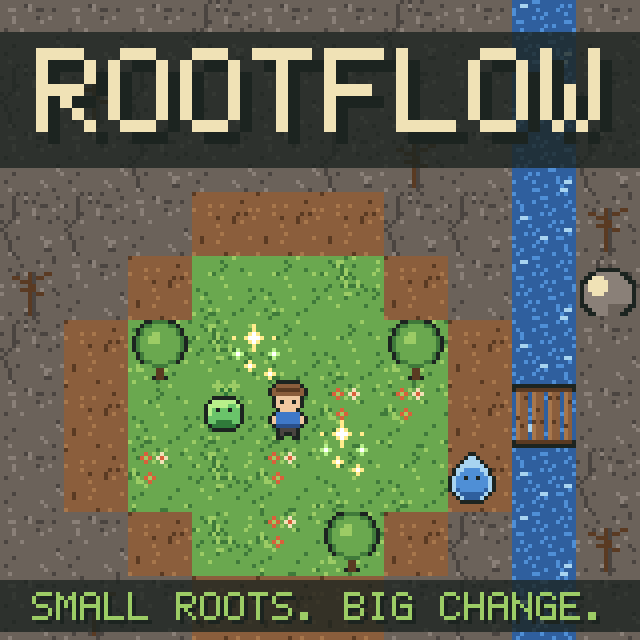
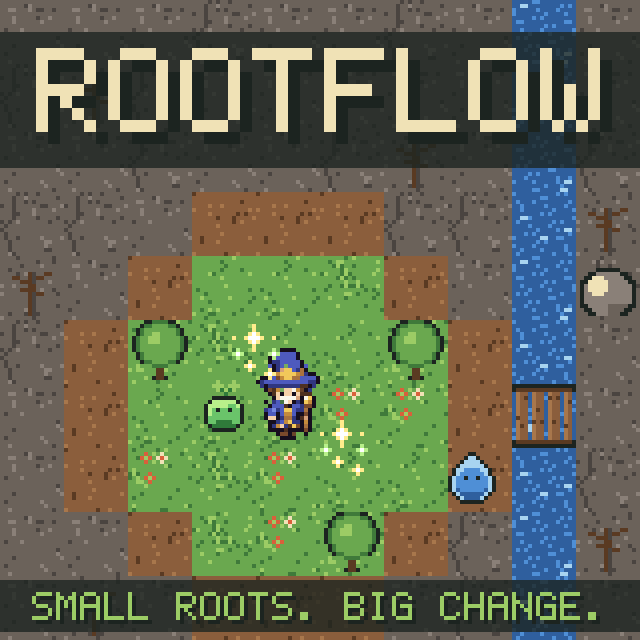
v0.4.4 art: new wizard player with a 3-frame walk
- New player: a young explorer wizard, generated with ChatGPT from a
  strict prompt (exact 10x10 pixel blocks, fixed 15-color palette,
  4x3 grid). Source in art/source/player_source.png.
- tools/import_sheet.py --grid converts it exactly (no color guessing);
  tools/player_palette.py holds the palette the prompt lists.
- 12 frames of 16x32 (art 16x24): front, back, side x stand + 3 walk
  frames with real strides, played 1-2-3-2.
- The player draws as a tall 16x32 sprite above its feet; collision
  is unchanged.
- Sprite VRAM offsets are generated by build_data.py (TILE_*).
- The sparkle has its own palette so player colors cannot change it.
- Cover uses the new player.

Changed region(s): [[0.4062, 0.5312, 0.5, 0.6875]]

diff --git a/rootflow/tools/import_sheet.py b/rootflow/tools/import_sheet.py
@@ -1,0 +1,167 @@
+"""Turn a designer's upscaled sprite image into a true low-res indexed sheet.
+
+Grid mode (preferred; for images made with the 4x3 player prompt, exact 10x10 pixel blocks):
+  python3 tools/import_sheet.py --grid SRC OUT
+  Finds the frames, reads the center of each block, and snaps every color to the player
+  palette in tools/player_palette.py. Rows: front, back, side (faces right); columns: stand,
+  walk1, passing, walk3. Output: player_sprite.png layout (12 frames of 16x32, art 16x24).
+
+Strip mode (for blurry or unevenly scaled images, e.g. a WebP of one long row):
+  python3 tools/import_sheet.py SRC OUT FRAMES ART_HEIGHT CELL_HEIGHT
+  SRC          image with FRAMES characters in one row on a magenta background
+               (it may be scaled up and blurred, e.g. an AI image or a WebP)
+  OUT          indexed PNG: FRAMES cells of 16 x CELL_HEIGHT, index 0 = transparent magenta
+  ART_HEIGHT   the real height of the art in pixels (the source is scaled to this)
+  CELL_HEIGHT  16 or 32; the art sits on the bottom of each cell
+
+Each output pixel takes the median color at the center of its block (where blur is lowest),
+then all frames share one 15-color palette.
+"""
+import os
+import sys
+from PIL import Image
+
+
+def runs(flags):
+    out, i = [], 0
+    while i < len(flags):
+        if flags[i]:
+            s = i
+            while i < len(flags) and flags[i]:
+                i += 1
+            out.append((s, i - 1))
+        i += 1
+    return out
+
+
+def grid_main(src, out):
+    sys.path.insert(0, os.path.dirname(os.path.abspath(__file__)))
+    from player_palette import PAL
+    im = Image.open(src).convert("RGB")
+    w, h = im.size
+    px = im.load()
+
+    def is_bg(c):
+        r, g, b = c
+        return r > 180 and g < 110 and b > 180
+
+    bands = runs([any(not is_bg(px[x, y]) for x in range(w)) for y in range(h)])
+    if len(bands) != 3:
+        sys.exit(f"expected 3 rows of figures, found {len(bands)}: {bands}")
+    # Pixel block size: the most common length of a same-color run.
+    from collections import Counter
+    lens = Counter()
+    for y in range(0, h, 3):
+        x = 0
+        while x < w:
+            c, s0 = px[x, y], x
+            while x < w and px[x, y] == c:
+                x += 1
+            lens[x - s0] += 1
+    block = min(k for k, v in lens.items() if v >= max(lens.values()) // 3 and k > 1)
+    sheet = Image.new("P", (16 * 12, 32), 0)
+    sheet.putpalette([c for rgb in PAL for c in rgb] + [0, 0, 0] * 240)
+    snapped = 0
+    for r, (y0, y1) in enumerate(bands):
+        cols = runs([any(not is_bg(px[x, y]) for y in range(y0, y1 + 1)) for x in range(w)])
+        if len(cols) != 4:
+            sys.exit(f"row {r}: expected 4 figures, found {len(cols)}: {cols}")
+        art_h = round((y1 - y0 + 1) / block)
+        if art_h > 24:
+            sys.exit(f"row {r}: figures are {art_h} pixels tall, more than 24")
+        for c, (x0, x1) in enumerate(cols):
+            fw = round((x1 - x0 + 1) / block)
+            ox = (16 - fw) // 2
+            for ty in range(art_h):
+                for tx in range(fw):
+                    col = px[x0 + tx * block + block // 2, y0 + ty * block + block // 2]
+                    if is_bg(col):
+                        continue
+                    d, idx = min((sum((col[k] - PAL[i][k]) ** 2 for k in range(3)), i) for i in range(1, 16))
+                    snapped += d > 0
+                    # feet on the bottom row of the 24-pixel art box (cell rows 8..31)
+                    sheet.putpixel(((r * 4 + c) * 16 + ox + tx, 32 - art_h + ty), idx)
+    sheet.save(out)
+    print(f"wrote {out}: block {block}px, {snapped} pixels needed color snapping")
+
+
+def main():
+    if sys.argv[1] == "--grid":
+        return grid_main(sys.argv[2], sys.argv[3])
+    src, out, frames, art_h, cell_h = sys.argv[1], sys.argv[2], *map(int, sys.argv[3:6])
+    im = Image.open(src).convert("RGB")
+    w, h = im.size
+    px = im.load()
+
+    def is_bg(c):
+        r, g, b = c
+        return r > 180 and g < 110 and b > 180
+
+    cols = [any(not is_bg(px[x, y]) for y in range(h)) for x in range(w)]
+    runs, x = [], 0
+    while x < w:
+        if cols[x]:
+            s = x
+            while x < w and cols[x]:
+                x += 1
+            runs.append((s, x - 1))
+        x += 1
+    if len(runs) != frames:
+        sys.exit(f"found {len(runs)} figures, expected {frames}: {runs}")
+    rows = [y for y in range(h) if any(not is_bg(px[x, y]) for x in range(w))]
+    top, bot = rows[0], rows[-1]
+    scale = (bot - top + 1) / art_h
+
+    def is_fringe(c):
+        # magenta blended into an edge: red and blue well above green
+        r, g, b = c
+        return r > 60 and b > 60 and g < 0.6 * min(r, b)
+
+    def sample(cx, cy):
+        cs = [px[min(w - 1, max(0, int(cx) + dx)), min(h - 1, max(0, int(cy) + dy))]
+              for dy in (-1, 0, 1) for dx in (-1, 0, 1)]
+        bg_like = sum(is_bg(c) or (is_fringe(c) and sum(c) > 300) for c in cs)
+        if bg_like >= 5:
+            return None
+        cs = sorted((c for c in cs if not is_bg(c)), key=sum)
+        c = cs[len(cs) // 2]
+        if is_fringe(c):          # a dark fringe is really the outline
+            return OUTLINE
+        return c
+
+    # The outline color: the darkest common color in the source figures.
+    dark = [px[x, y] for y in range(top, bot + 1, 2) for x in range(0, w, 2)
+            if not is_bg(px[x, y]) and sum(px[x, y]) < 90 and not is_fringe(px[x, y])]
+    OUTLINE = sorted(dark, key=sum)[len(dark) // 2] if dark else (16, 12, 20)
+
+    cells = []
+    for x0, x1 in runs:
+        nw = min(16, round((x1 - x0 + 1) / scale))
+        off = (16 - nw) // 2
+        cell = {}
+        for ty in range(art_h):
+            for tx in range(nw):
+                c = sample(x0 + (tx + 0.5) * scale, top + (ty + 0.5) * scale)
+                if c:
+                    cell[(tx + off, ty)] = c
+        cells.append(cell)
+
+    colors = [c for cell in cells for c in cell.values()]
+    strip = Image.new("RGB", (len(colors), 1))
+    strip.putdata(colors)
+    pal = strip.quantize(colors=15, method=Image.Quantize.MAXCOVERAGE, kmeans=8).getpalette()[:45]
+
+    def nearest(c):
+        return min(range(15), key=lambda i: sum((c[k] - pal[i * 3 + k]) ** 2 for k in range(3)))
+
+    sheet = Image.new("P", (16 * frames, cell_h), 0)
+    sheet.putpalette([255, 0, 255] + pal + [0, 0, 0] * 240)
+    for i, cell in enumerate(cells):
+        for (tx, ty), c in cell.items():
+            sheet.putpixel((i * 16 + tx, cell_h - art_h + ty), nearest(c) + 1)
+    sheet.save(out)
+    print(f"wrote {out}: {frames} frames, {scale:.2f} source px per pixel")
+
+
+if __name__ == "__main__":
+    main()

diff --git a/rootflow/src/main.c b/rootflow/src/main.c
@@ -203,25 +203,31 @@ static void draw_life(void) {
 
 // ---------- sprites ----------
 static u16 oam_shadow[128 * 4];
-static void sprite_set(s32 id, s32 x, s32 y, u32 tile, u32 hflip, u32 pal) {
+// tile8 is in 8x8 tiles. tall = 16x32 (vertical shape, size 2), else 16x16 (square, size 1).
+static void obj_set(s32 id, s32 x, s32 y, u32 tile8, u32 hflip, u32 pal, int tall) {
     u16 *o = &oam_shadow[id * 4];
-    if (x < -16 || x > SCREEN_W || y < -16 || y > SCREEN_H) { o[0] = 0x0200; return; }
-    o[0] = (y & 0xFF);                                        // square shape
-    o[1] = (x & 0x1FF) | (1 << 14) | (hflip ? 1 << 12 : 0);   // 16x16
-    o[2] = (tile * 4) | (1 << 10) | (pal << 12);              // priority 1
+    if (x < -16 || x > SCREEN_W || y < (tall ? -32 : -16) || y > SCREEN_H) { o[0] = 0x0200; return; }
+    o[0] = (y & 0xFF) | (tall ? 2 << 14 : 0);
+    o[1] = (x & 0x1FF) | ((tall ? 2 : 1) << 14) | (hflip ? 1 << 12 : 0);
+    o[2] = tile8 | (1 << 10) | (pal << 12);                   // priority 1
+}
+// 16x16 sprite; tile is in 16x16 cells (4 tiles each).
+static void sprite_set(s32 id, s32 x, s32 y, u32 tile, u32 hflip, u32 pal) {
+    obj_set(id, x, y, tile * 4, hflip, pal, 0);
 }
 static void sprite_hide(s32 id) { oam_shadow[id * 4] = 0x0200; }
 static void oam_flush(void) {
     for (u32 i = 0; i < 128 * 4; i++) OAM[i] = oam_shadow[i];
 }
 
-// Sprite sheet tile numbers (16x16 cells)
-#define SPR_SPROUT 6
-#define SPR_SPARKLE 8
-#define SPR_RIPPLE 9
-#define SPR_ZZZ 11
-#define SPR_STONE 12
-#define SPR_BREEZE 14
+// Sprite sheet cells (16x16 cells = 4 tiles); offsets come from build_data.py.
+// The player is separate: 16x32 frames of 8 tiles from TILE_PLAYER.
+#define SPR_SPROUT (TILE_SPROUT / 4)
+#define SPR_SPARKLE (TILE_FX / 4)
+#define SPR_RIPPLE (TILE_RIPPLE / 4)
+#define SPR_ZZZ (SPR_RIPPLE + 2)
+#define SPR_STONE (TILE_PEBBLE / 4)
+#define SPR_BREEZE (TILE_BREEZE / 4)
 #define PAL_MAIN 0
 #define PAL_RIPPLE 1
 #define PAL_SLEEP 2
@@ -230,6 +236,7 @@ static void oam_flush(void) {
 #define PAL_BREEZE 5
 #define PAL_BREEZE_SLEEP 6
 #define PAL_SPROUT 7
+#define PAL_FX 8
 
 // OAM slots
 #define OAM_PLAYER  0
@@ -238,7 +245,7 @@ static void oam_flush(void) {
 #define OAM_SPARKLE 9
 
 // ---------- game state ----------
-static s32 px, py, pdir, pframe;        // player top-left (pixels), facing, anim frame
+static s32 px, py, pdir, pstep;         // player top-left of the 16x16 feet cell (pixels), facing, walk step
 static s32 cam_x, cam_y;
 static u32 frame;
 
@@ -507,11 +514,11 @@ static void update_player(void) {
     if (dy && !blocked_at(px, py + dy)) { py += dy; moved = 1; }
 
     if (moved) {
-        if ((frame & 7) == 0) pframe ^= 1;
+        if ((frame & 7) == 0) pstep++;
         hist_head = (hist_head + 1) & (HIST - 1);
         hist_x[hist_head] = px; hist_y[hist_head] = py;
     } else {
-        pframe = 0;
+        pstep = 0;
     }
 }
 
@@ -800,8 +807,13 @@ static void animate_water(void) {
 }
 
 static void draw_sprites(void) {
-    static const u8 base_tile[4] = { 0, 2, 4, 4 };   // down, up, left, right
-    sprite_set(OAM_PLAYER, px - cam_x, py - cam_y, base_tile[pdir] + pframe, pdir == DIR_LEFT, PAL_MAIN);
+    // Player sheet: per direction (down, up, side) 4 frames: stand, walk1, walk2, walk3.
+    // Walking plays 1, 2, 3, 2. Left is the side frames mirrored. The sprite is 16x32 with the
+    // feet in the bottom 16 pixels, so it is drawn 16 pixels above the feet cell.
+    static const u8 dir_block[4] = { 0, 1, 2, 2 };   // down, up, left, right
+    static const u8 walk_seq[4] = { 1, 2, 3, 2 };
+    u32 f = dir_block[pdir] * 4 + (pstep ? walk_seq[pstep & 3] : 0);
+    obj_set(OAM_PLAYER, px - cam_x, py - cam_y - 16, TILE_PLAYER + f * 8, pdir == DIR_LEFT, PAL_MAIN, 1);
 
     for (s32 i = 0; i < NUM_SPIRITS; i++) {
         Spirit *s = &spirits[i];
@@ -821,7 +833,7 @@ static void draw_sprites(void) {
     if (sparkle_life > 0) {
         sparkle_life--;
         sprite_set(OAM_SPARKLE, sparkle_x - cam_x, sparkle_y - cam_y - (40 - sparkle_life) / 4,
-                   SPR_SPARKLE, (frame >> 3) & 1, PAL_MAIN);
+                   SPR_SPARKLE, (frame >> 3) & 1, PAL_FX);
     } else {
         sprite_hide(OAM_SPARKLE);
     }
@@ -840,6 +852,7 @@ int main(void) {
         PAL_OBJ[80 + i] = obj_pal_breeze[i];
         PAL_OBJ[96 + i] = obj_pal_breeze_sleep[i];
         PAL_OBJ[112 + i] = obj_pal_sprout[i];
+        PAL_OBJ[128 + i] = obj_pal_fx[i];
     }
     PAL_BG[16 + 1] = 0x7FFF;                         // text color: white
     PAL_BG[16 + 2] = (2) | (3 << 5) | (6 << 10);     // text background: dark slate

diff --git a/rootflow/tools/build_data.py b/rootflow/tools/build_data.py
@@ -46,9 +46,14 @@ def tile_words(img, ox, oy):
 
 def strip_16x16(img):
     """Each 16x16 cell becomes 4 tiles in order TL, TR, BL, BR."""
+    return strip_cells(img, 16)
+
+
+def strip_cells(img, cell_h):
+    """Each 16 x cell_h cell becomes 8x8 tiles in row-major order (the GBA's 1D sprite layout)."""
     words = []
     for i in range(img.width // 16):
-        for ty in (0, 8):
+        for ty in range(0, cell_h, 8):
             for tx in (0, 8):
                 words += tile_words(img, i * 16 + tx, ty)
     return words
@@ -204,6 +209,15 @@ def main():
     breeze = Image.open(os.path.join(ART, "breeze_sprite.png"))
     for im in (terrain, player, sprout, fx, ripple, pebble, breeze):
         assert im.mode == "P", "PNGs must be indexed color"
+    # The player is 12 tall frames: down, up, side (faces right) x stand, walk1, walk2, walk3.
+    assert player.size == (192, 32), f"player_sprite.png must be 192x32 (12 frames of 16x32), not {player.size}"
+    # Sprite VRAM layout in 8x8 tiles; main.c uses these offsets.
+    sheets = [("PLAYER", player, 32), ("SPROUT", sprout, 16), ("FX", fx, 16),
+              ("RIPPLE", ripple, 16), ("PEBBLE", pebble, 16), ("BREEZE", breeze, 16)]
+    sprite_words, tile_defs = [], []
+    for name, img, cell_h in sheets:
+        tile_defs.append(f"#define TILE_{name} {len(sprite_words) // 8}")
+        sprite_words += strip_cells(img, cell_h)
     pal_ripple = palette_of(ripple)
     pal_pebble = palette_of(pebble)
     pal_breeze = palette_of(breeze)
@@ -223,6 +237,8 @@ def main():
     out.append(c_array("unsigned short", "bg_pal", palette_of(terrain), fmt="0x{:04X}"))
     out.append(c_array("unsigned short", "obj_pal", palette_of(player), fmt="0x{:04X}"))
     out.append(c_array("unsigned short", "obj_pal_sprout", palette_of(sprout), fmt="0x{:04X}"))
+    out.append(c_array("unsigned short", "obj_pal_fx", palette_of(fx), fmt="0x{:04X}"))
+    out.append("\n".join(tile_defs))
     out.append(c_array("unsigned int", "terrain_tiles", strip_16x16(terrain)))
     out.append(c_array("unsigned short", "obj_pal_ripple", pal_ripple, fmt="0x{:04X}"))
     out.append(c_array("unsigned short", "obj_pal_ripple_sleep", gray, fmt="0x{:04X}"))
@@ -230,10 +246,7 @@ def main():
     out.append(c_array("unsigned short", "obj_pal_pebble_sleep", sleep_palette(pal_pebble), fmt="0x{:04X}"))
     out.append(c_array("unsigned short", "obj_pal_breeze", pal_breeze, fmt="0x{:04X}"))
     out.append(c_array("unsigned short", "obj_pal_breeze_sleep", sleep_palette(pal_breeze), fmt="0x{:04X}"))
-    out.append(c_array("unsigned int", "sprite_tiles",
-                       strip_16x16(player) + strip_16x16(sprout) + strip_16x16(fx)
-                       + strip_16x16(ripple) + strip_16x16(pebble)
-                       + strip_16x16(breeze)))
+    out.append(c_array("unsigned int", "sprite_tiles", sprite_words))
     out.append(c_array("unsigned int", "font_tiles", font_words()))
     out.append(c_array("unsigned char", "start_map", make_map(), per_line=32, fmt="{}"))
     os.makedirs(os.path.dirname(OUT), exist_ok=True)

diff --git a/rootflow/tools/player_palette.py b/rootflow/tools/player_palette.py
@@ -1,0 +1,21 @@
+"""The player's 15 colors (+ transparent). The ChatGPT prompt lists these exact hex values,
+and tools/import_sheet.py --grid snaps the designer image to them."""
+
+PAL = [
+    (255, 0, 255),    # 0 transparent
+    (22, 14, 30),     # 1 outline
+    (48, 54, 128),    # 2 blue dark
+    (78, 90, 190),    # 3 blue
+    (118, 136, 224),  # 4 blue light
+    (242, 200, 90),   # 5 gold
+    (196, 138, 60),   # 6 gold dark
+    (246, 208, 170),  # 7 skin
+    (214, 160, 122),  # 8 skin shade
+    (122, 74, 44),    # 9 hair
+    (78, 48, 32),     # A boots
+    (170, 114, 62),   # B staff wood
+    (120, 170, 96),   # C pack green
+    (70, 116, 70),    # D pack green dark
+    (250, 246, 236),  # E white
+    (104, 66, 42),    # F belt leather
+]

diff --git a/rootflow/tools/make_art.py b/rootflow/tools/make_art.py
@@ -574,7 +574,16 @@ def make_ripple():
 
 
 def make_player():
-    return draw_sheet(SPRITES, PLAYER_ORDER, OBJ_PAL)
+    """Fallback player sheet (192x32): the original 16x16 art in tall cells, 4 frames per
+    direction (stand, walk1, walk2, walk3) built from its two frames."""
+    small = draw_sheet(SPRITES, PLAYER_ORDER, OBJ_PAL)
+    img = Image.new("P", (16 * 12, 32), 0)
+    img.putpalette(small.getpalette())
+    for d in range(3):                      # down, up, side
+        for k, src in enumerate((0, 1, 0, 1)):
+            cell = small.crop(((d * 2 + src) * 16, 0, (d * 2 + src + 1) * 16, 16))
+            img.paste(cell, ((d * 4 + k) * 16, 16))
+    return img
 
 
 def make_sprout():

diff --git a/rootflow/tools/make_cover.py b/rootflow/tools/make_cover.py
@@ -103,7 +103,7 @@ def main():
     img.alpha_composite(strip, (0, SIZE - 15))
 
     for spr, pos in [(cell(sprout, 0), (48, 94)),
-                     (cell(player, 0), (64, 94)),
+                     (player.crop((0, 0, 16, 32)), (64, 78)),   # 16x32 frame, feet at y 94..109
                      (cell(ripple, SPR_RIPPLE), (110, 112)),
                      (cell(fx, 0), (56, 80)),
                      (cell(fx, 0), (78, 104))]:
